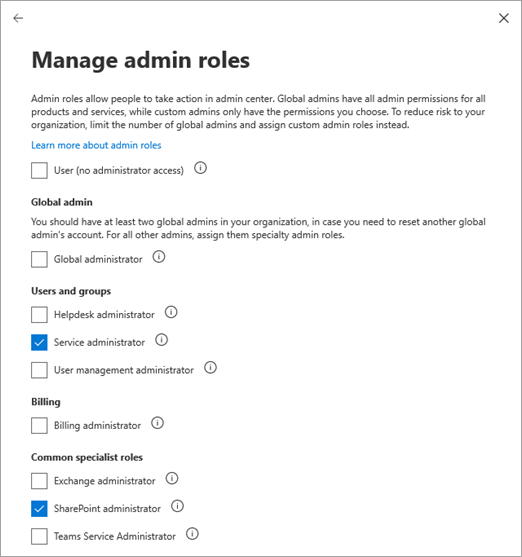
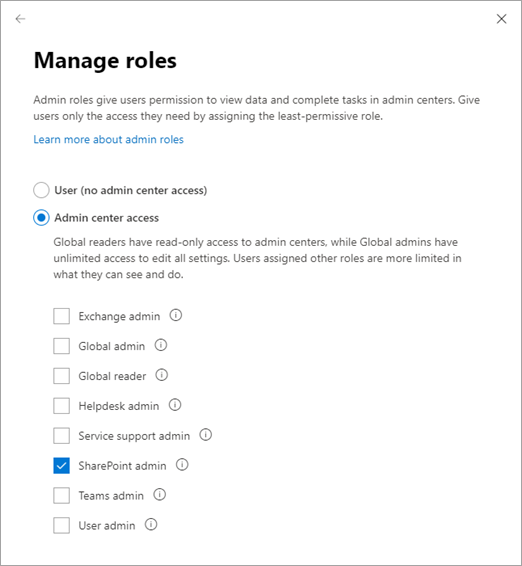
Updated screenshot and terminology

diff --git a/SharePoint/SharePointOnline/sharepoint-admin-role.md b/SharePoint/SharePointOnline/sharepoint-admin-role.md
@@ -21,31 +21,28 @@ search.appverid:
 - GSP150
 - MET150
 ms.assetid: f08144d5-9d50-4922-8e77-4e1a27b40705
-description: "SharePoint admins manage your document storage. They also assign site collection administrators and Term Store Administrators.  "
+description: "SharePoint admins administer SharePoint and OneDrive in your organization. "
 ---
 
 # About the SharePoint admin role in Microsoft 365
 
-Global administrators in Microsoft 365 can assign users the SharePoint administrator role for help with administering SharePoint Online. The global admin already has all the permissions of a SharePoint admin. When you purchase a Microsoft 365 or Office 365 subscription, a team site is automatically created, and the global admin is set as the primary site collection administrator. For info about assigning a user the SharePoint administrator role, see [Assign admin roles in Office 365 for business](/office365/admin/add-users/assign-admin-roles).
-
-> [!TIP]
-> When you assign someone the SharePoint admin role, you may also want to assign them to Service administrator role. This way they can see important information in the Microsoft 365 admin center, such as the health of the SharePoint Online service, and change and release notifications. 
+Global admins in Microsoft 365 can assign users the SharePoint admin role for help with administering SharePoint Online. The global admin already has all the permissions of a SharePoint admin. For info about assigning a user the SharePoint admin role, see [Assign admin roles in Office 365 for business](/office365/admin/add-users/assign-admin-roles).
 
    ![Manage admin roles in the Microsoft 365 admin center](media/sharepoint-admin-role.png)
   
-Users assigned the SharePoint admin role have access to the SharePoint admin center and can create and manage site collections, designate site collection administrators, manage user profiles, and more. 
+Users assigned the SharePoint admin role have access to the SharePoint admin center and can create and manage sites (previously called "site collections"), designate site admins, manage sharing settings, and more. 
 
 > [!IMPORTANT]
 > SharePoint admins can now manage Office 365 groups, including creating, deleting, and restoring groups, and changing group owners.
 
-Global admins and SharePoint admins don't have automatic access to all sites and each user's OneDrive, but they can give themselves access to any site or OneDrive. They can also use Microsoft PowerShell to manage SharePoint and OneDrive. See more about this role's [Key tasks of the SharePoint administrator](sharepoint-admin-role.md#BK_KeyTasks) below. 
+Global admins and SharePoint admins don't have automatic access to all sites and each user's OneDrive, but they can give themselves access to any site or OneDrive. They can also use Microsoft PowerShell to manage SharePoint and OneDrive. See more about this role's [Key tasks of the SharePoint admin](sharepoint-admin-role.md#BK_KeyTasks) below. 
   
-Site admins are users that have permission to manage sites (previously called "site collections"), including the site root and any subsites. They don't need to have an admin role in Microsoft 365, and don't have access to the SharePoint admin center. A site can have several site administrators, but must have one and only one primary administrator. 
+Site admins are users that have permission to manage sites, including any subsites. They don't need to have an admin role in Microsoft 365, and aren't given access to the SharePoint admin center. 
   
 > [!NOTE]
-> Global admins, SharePoint admins, and site collection admins all need to be assigned a SharePoint Online license. <br>There is a separate role within SharePoint called the **Term Store Administrator**. Users assigned this role can add or change terms in the term store (a directory of common terms you want to use across your organization). To learn more, see [Assign roles and permissions to manage term sets](assign-roles-and-permissions-to-manage-term-sets.md). 
+> Global admins, SharePoint admins, and site admins all need to be assigned a SharePoint Online license. <br>There is a separate role within SharePoint called the **Term Store Administrator**. Users assigned this role can add or change terms in the term store (a directory of common terms you want to use across your organization). To learn more, see [Assign roles and permissions to manage term sets](assign-roles-and-permissions-to-manage-term-sets.md). 
   
-## Key tasks of the SharePoint administrator
+## Key tasks of the SharePoint admin
 <a name="BK_KeyTasks"> </a>
 
 Here are some of the key tasks users can do when they are assigned to the SharePoint admin role: 
